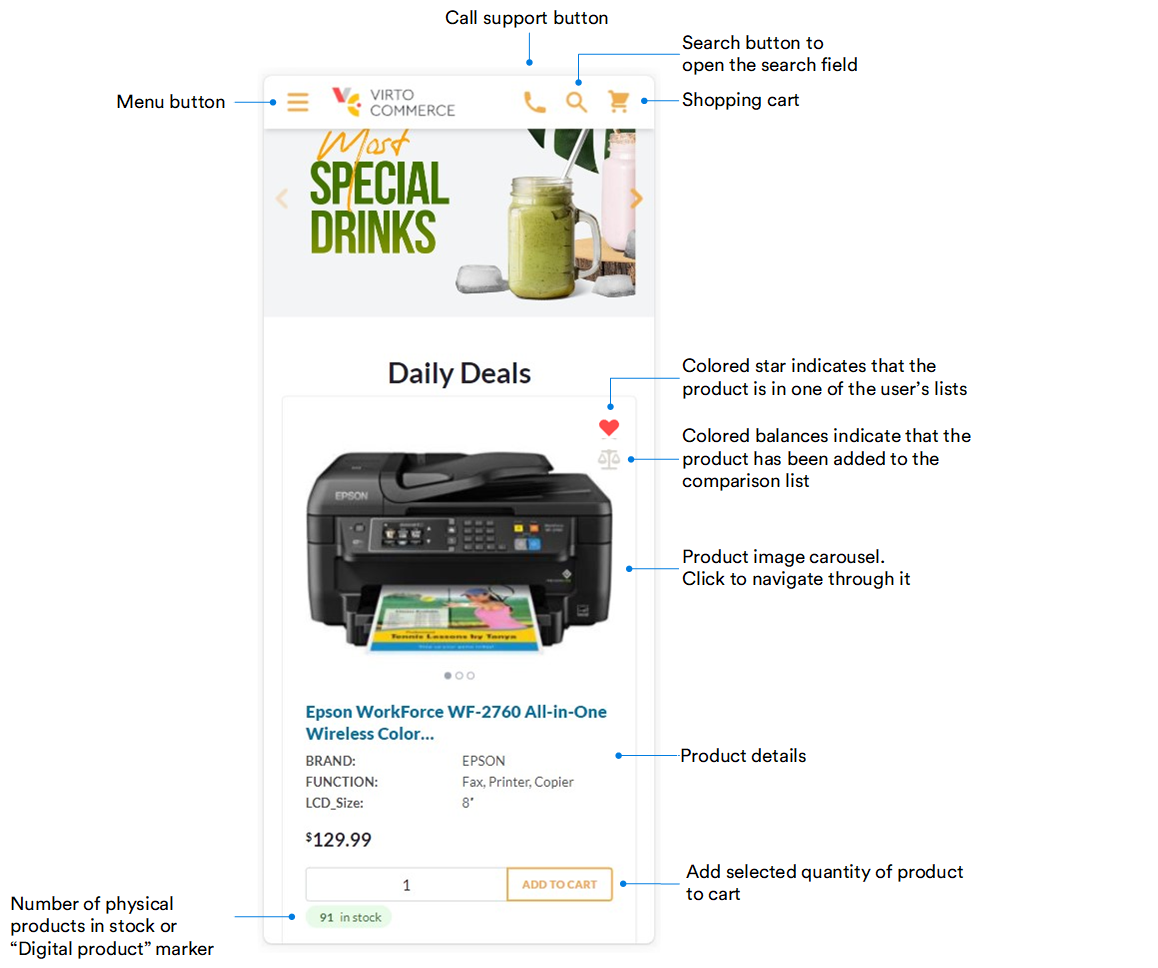
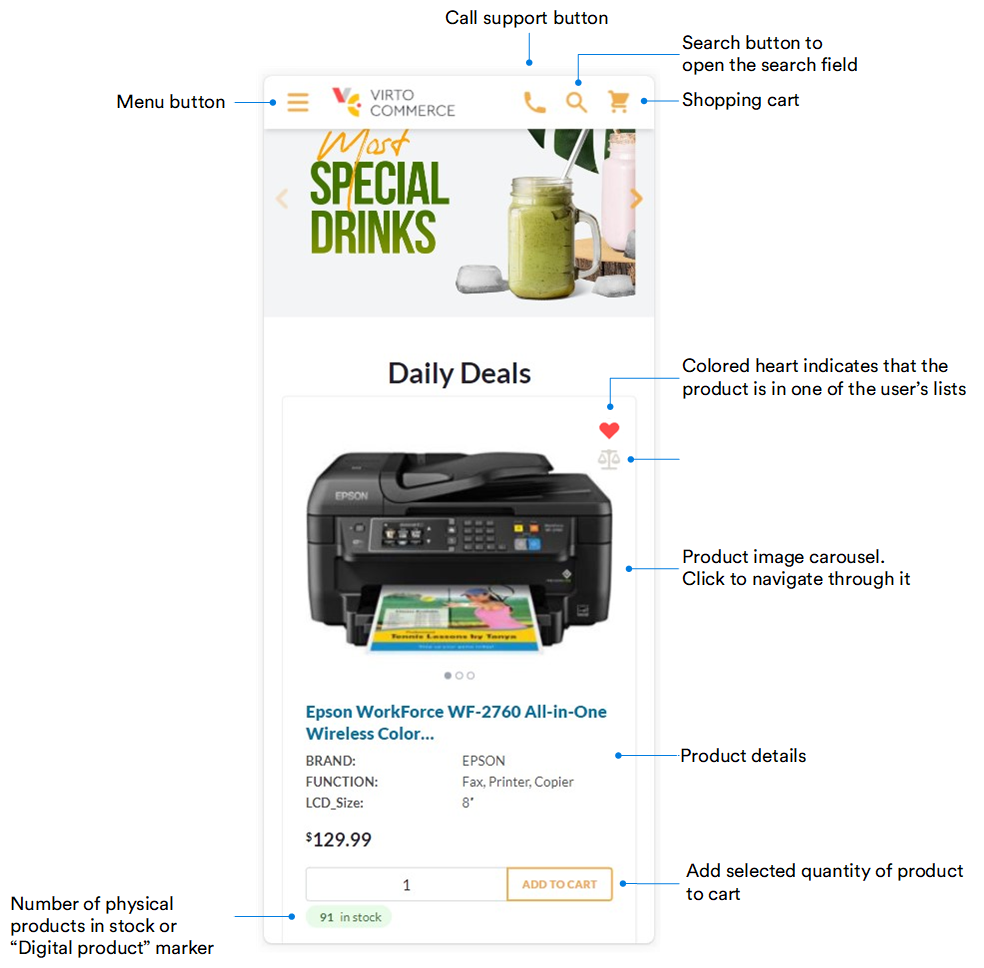
Minor corrections

diff --git a/platform/user-guide/docs/versions/virto3-products-versions.md b/platform/user-guide/docs/versions/virto3-products-versions.md
@@ -3,6 +3,9 @@ Click the hyperlink with the version name to see what versions of modules are in
 
 | Product                                | Version                      | GA<br>(Mainstream Support Phase)  | End of support <br> (Extended Support Phase)   | End of life <br>(Sustaining Support Phase) | 
 |---------                               |---------                     |----                               | -------                                   | ----        |
+|Virto Commerce platform core pack       |[v3-2024-S10](v3-2024-S10.md)   |2024-11-01                         |2025-09-01                                 |2025-11-01   |
+|Virto Commerce platform integration pack|[v3-2024-S10](v3-2024-S10.md)   |2024-11-01                         |2025-09-01                                 |2025-11-01   |
+|Virto Commerce platform enterprise pack |[v3-2024-S10](v3-2024-S10.md)   |2024-11-01                         |2025-09-01                                 |2025-11-01   |
 |Virto Commerce platform core pack       |[v3-2024-S9](v3-2024-S9.md)   |2024-01-01                         |2024-10-01                                 |2025-01-01   |
 |Virto Commerce platform integration pack|[v3-2024-S9](v3-2024-S9.md)   |2024-01-01                         |2024-10-01                                 |2025-01-01   |
 |Virto Commerce platform enterprise pack |[v3-2024-S9](v3-2024-S9.md)   |2024-01-01                         |2024-10-01                                 |2025-01-01   |

diff --git a/platform/user-guide/docs/subscription/overview.md b/platform/user-guide/docs/subscription/overview.md
@@ -7,7 +7,7 @@ The **Subscription** module enables retailers to sell subscription-based offerin
 [![Download](media/latest_release.png)](https://github.com/VirtoCommerce/vc-module-subscription/releases)
 
 
-This functionality can be enabled at the customer's request. In this case, the subscriptions will be displayed:
+When [enabled](enabling-subscriptions.md), the subscriptions will be displayed:
 
 * [In the Subscriptions module.](overview.md#view-subscriptions-in-subscriptions-module)
 * [In the Order module.](overview.md#view-subscriptions-in-order-module)

diff --git a/platform/user-guide/docs/subscription/enabling-subscriptions.md b/platform/user-guide/docs/subscription/enabling-subscriptions.md
@@ -1,0 +1,15 @@
+# Enable Subscriptions
+
+To enable subscriptions :
+
+1. Click **Settings** in the main menu.
+1. In the next blade, select settings related to the **Subscriptions** module.
+1. Click **Subscriptions**.
+1. In the next blade, switch the **Subscriptions activation** option to on.
+1. Click **Save** in the toolbar to save the changes.
+
+Now, you can sell subscription-based offerings.
+
+![Enabling subscriptions](media/enable-subscriptions.gif)
+
+You can [configure other settings](settings.md).

diff --git a/platform/developer-guide/docs/Fundamentals/Modularity/optional-dependency.md b/platform/developer-guide/docs/Fundamentals/Modularity/optional-dependency.md
@@ -89,10 +89,6 @@ You can resolve these dependencies as follows:
 
 1. In case of button/widgets/etc. which use controllers from the optional module, you can declare them after the `$injector.modules['angularModuleName']`check. 
 
-### Resolve optional dependency in vc-shell code
-
-In progress... 
-
 ### Configure Virto Commerce CLI package 
 
 To keep optional NuGet references as a part of the package, add a **.keep** file into the solution with a reference to optional dll, usually Core.  

diff --git a/platform/user-guide/docs/subscription/settings.md b/platform/user-guide/docs/subscription/settings.md
@@ -1,0 +1,17 @@
+# Settings
+
+To configure subscriptions settings:
+
+1. Click **Settings** in the main menu.
+1. Select settings related to the **Subscriptions** module.
+1. In the next blade, select settings to configure:
+
+    * General settings:
+
+        ![General settings](media/general-settings.png)
+
+    * Subscriptions settings:
+
+        ![Subscriptions](media/subscriptions-settings.png)
+
+1. Click **Save** in the toolbar to save the changes.

diff --git a/storefront/user-guide/docs/shopping/lists.md b/storefront/user-guide/docs/shopping/lists.md
@@ -2,7 +2,7 @@
 
 To add a product to a list:
 
-1. Click ![star](../media/star.png){: width="20"} in the top right corner of the product card. 
+1. Click ![star](../media/heart.png){: width="20"} in the top right corner of the product card. 
 1. In the popup window, select the list you want to add the product to or create a new list by clicking **Add new list** in the top right corner.
 
     ![lists](../media/select-list.png)

diff --git a/platform/user-guide/docs/content/overview.md b/platform/user-guide/docs/content/overview.md
@@ -1,6 +1,6 @@
 # Overview
 
-The xCMS module, or Content module, is designed to manage and display content on your ecommerce site. 
+The Content module is designed to manage and display content on your ecommerce site. 
 
 With the Content module, you can manage:
 

diff --git a/platform/user-guide/docs/versions/v3-2024-S10.md b/platform/user-guide/docs/versions/v3-2024-S10.md
@@ -1,6 +1,6 @@
-# Version v3-2024-S9
+# Version v3-2024-S10
 
-PlatformVersion: 3.854.1
+PlatformVersion: 3.854.4
 
 ThemeB2BVue: https://github.com/VirtoCommerce/vc-frontend/releases/download/2.6.0/vc-theme-b2b-vue-2.6.0.zip
 
